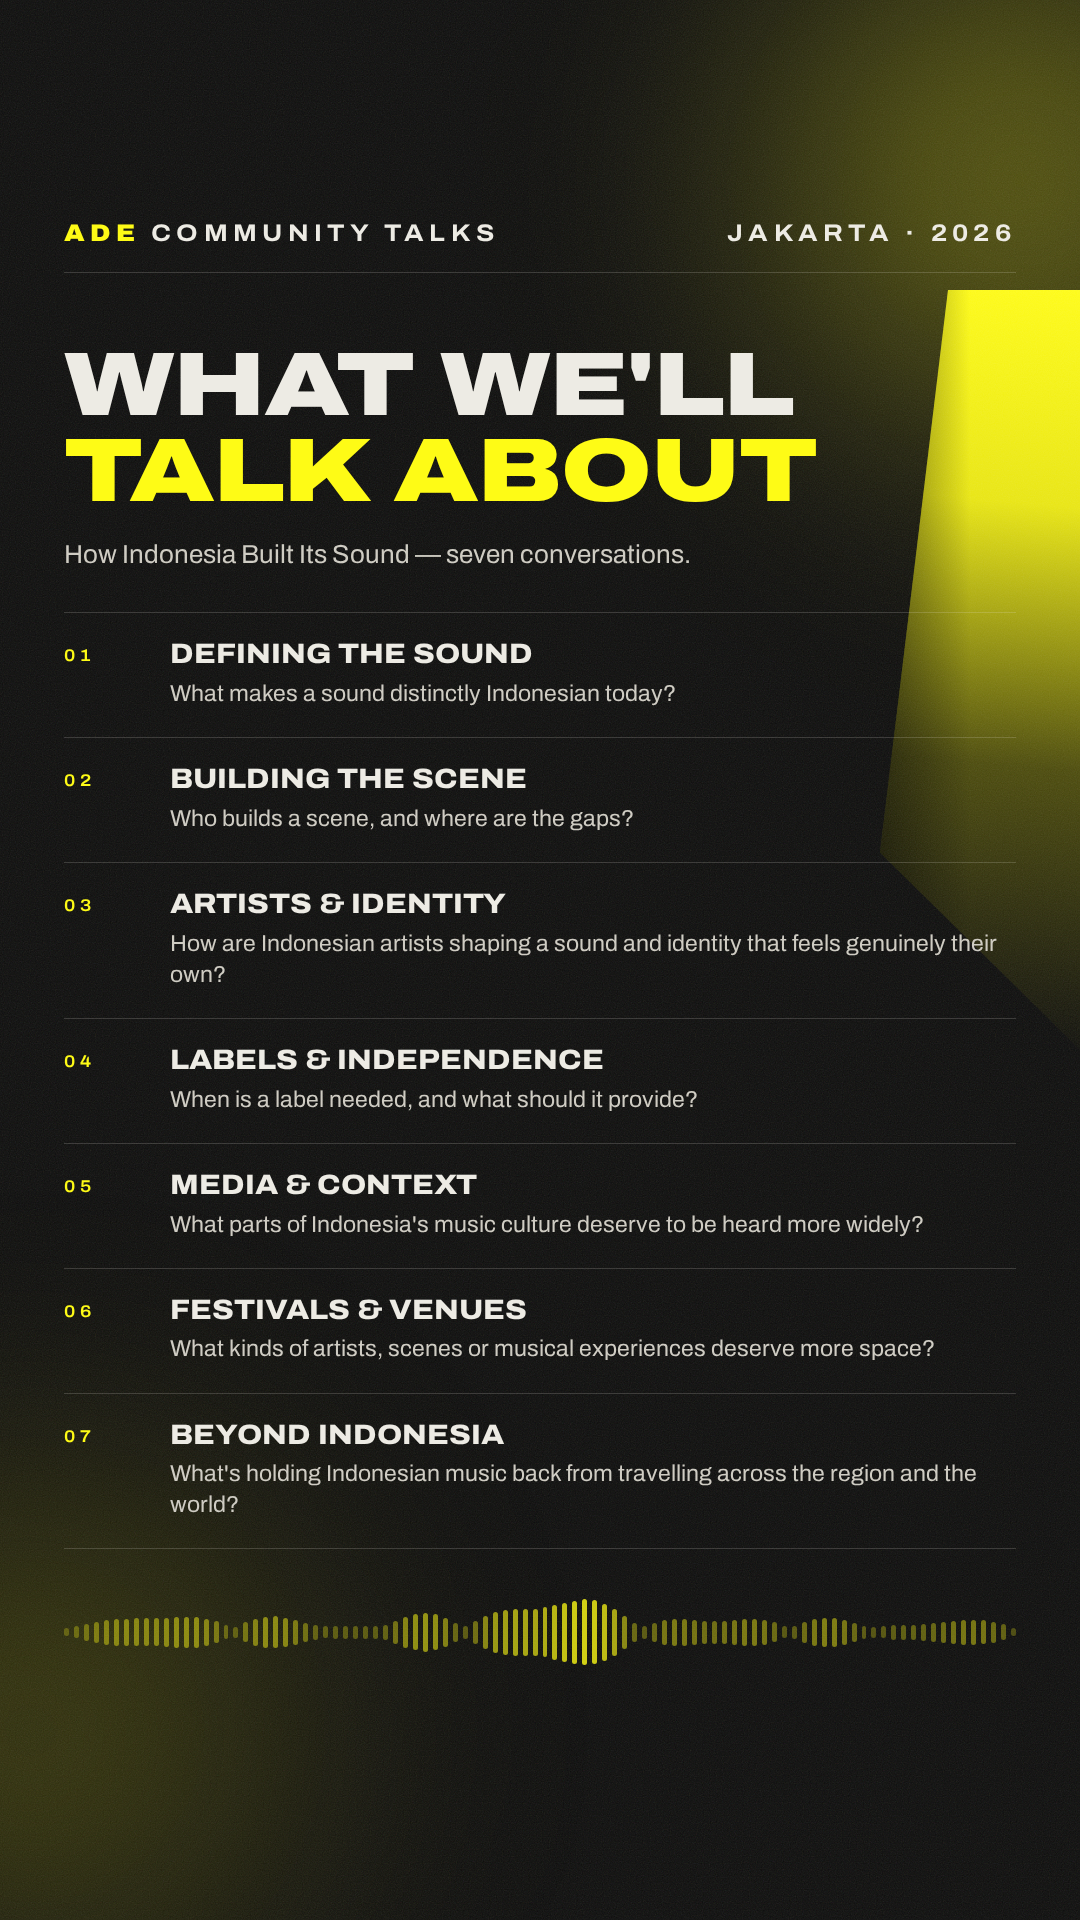
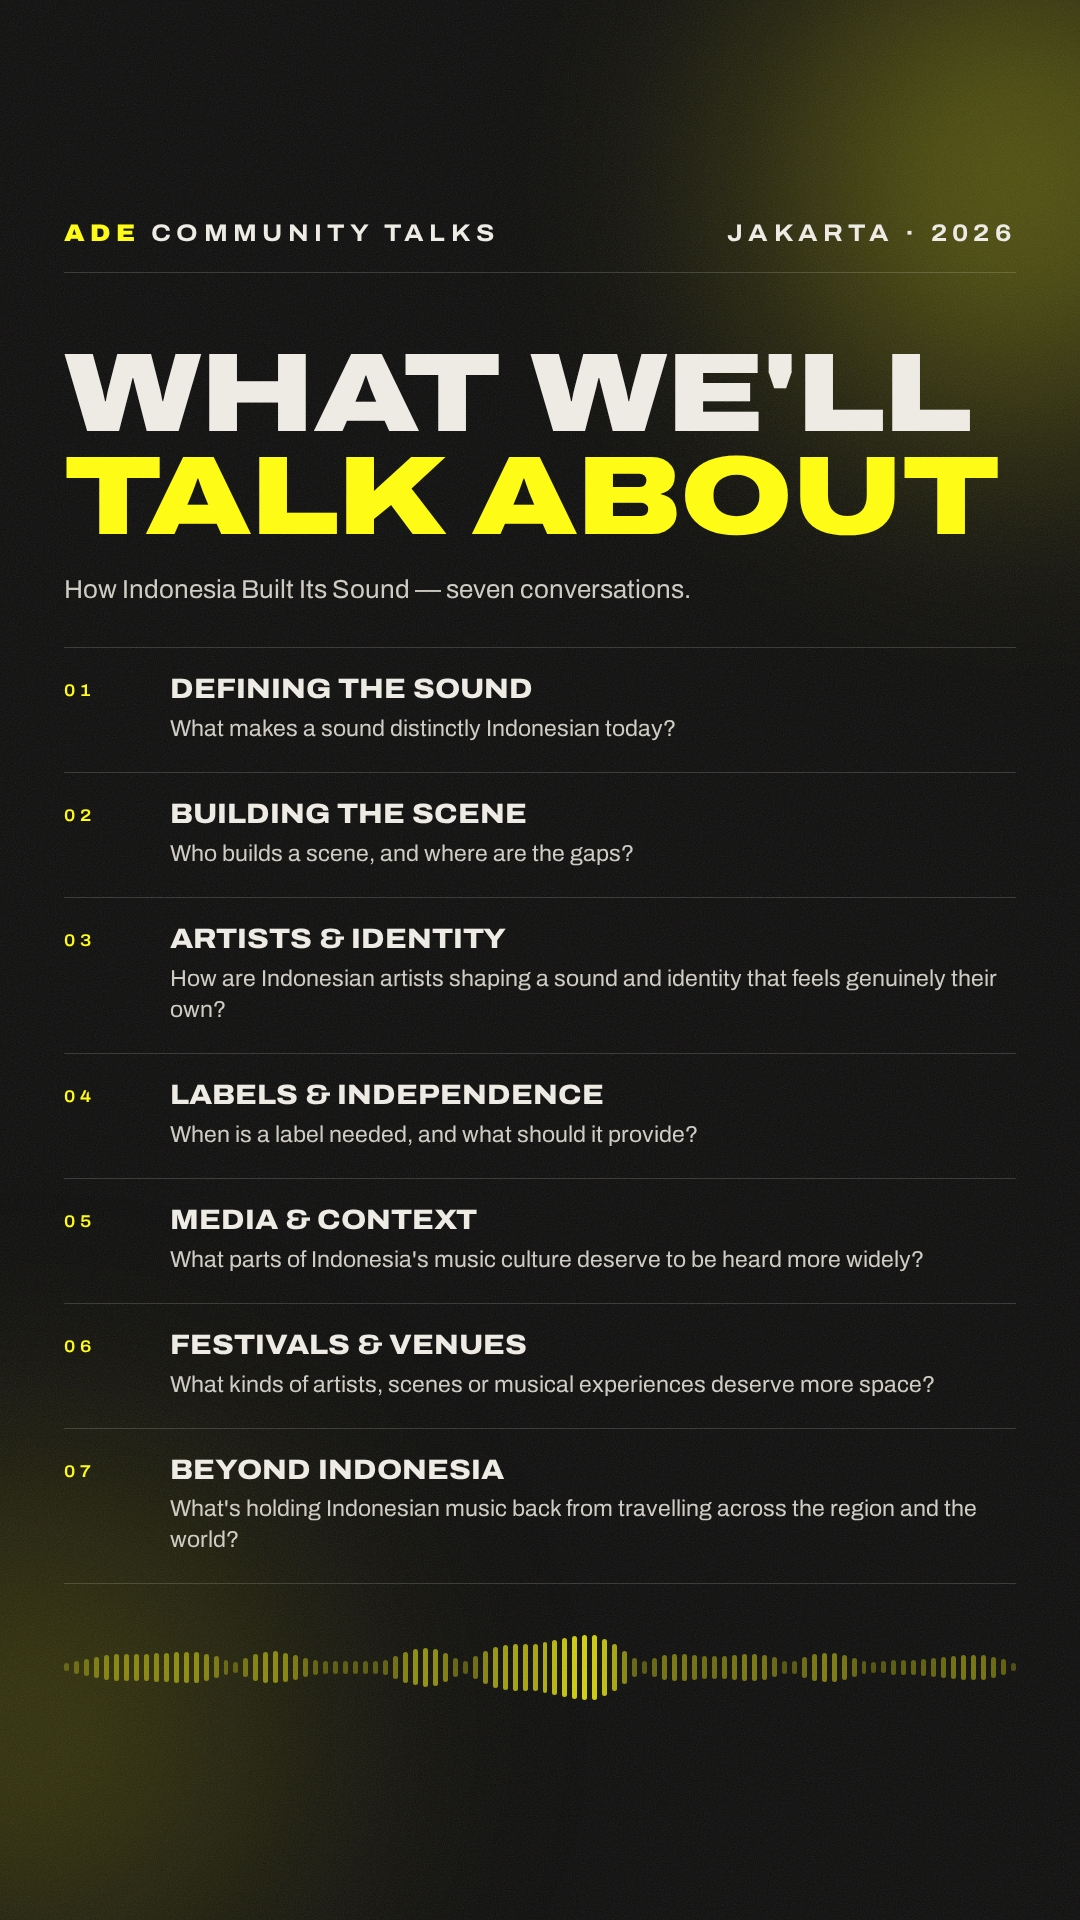
ADE flyer: drop the beam, keep the subtle corner glow
Claude-Session: https://claude.ai/code/session_01Sc5gF2HRFqjLpMQDrx7aqZ

diff --git a/events/ade-community-talks-2026/00-invite.html b/events/ade-community-talks-2026/00-invite.html
@@ -3,12 +3,12 @@
 .blank { margin-top: 40px; height: 200px; border-bottom: 1.5px solid rgba(237,235,228,.55); display: flex; align-items: flex-end; justify-content: flex-end; padding-bottom: 14px; }
 </style></head>
 <body>
-<div class="glow g1"></div><div class="beam"></div><div class="glow g2"></div><div class="grain"></div>
+<div class="glow g1"></div><div class="glow g2"></div><div class="grain"></div>
 <div class="page">
   <div class="row"><div class="label head"><b>ADE</b> Community Talks</div><div class="label head">Jakarta · 2026</div></div>
   <div class="hr" style="margin-top:26px"></div>
 
-  <div class="display" style="font-size:180px;line-height:.9;margin-top:90px">We<br>invite</div>
+  <div class="display" style="font-size:196px;line-height:.88;margin-top:90px">We<br>invite</div>
   <div class="blank"><span class="label">your name</span></div>
 
   <div class="lead" style="margin-top:48px">to an afternoon of talks, music and good company on</div>

diff --git a/events/ade-community-talks-2026/02-topics.html b/events/ade-community-talks-2026/02-topics.html
@@ -6,12 +6,12 @@
 .topic .q { font-size: 23px; line-height: 1.35; color: var(--soft); margin-top: 8px; }
 </style></head>
 <body>
-<div class="glow g1"></div><div class="beam"></div><div class="glow g2"></div><div class="grain"></div>
+<div class="glow g1"></div><div class="glow g2"></div><div class="grain"></div>
 <div class="page">
   <div class="row"><div class="label head"><b>ADE</b> Community Talks</div><div class="label head">Jakarta · 2026</div></div>
   <div class="hr" style="margin-top:26px"></div>
 
-  <div class="display" style="font-size:90px;line-height:.95;margin-top:70px">What we'll<br><em>talk about</em></div>
+  <div class="display" style="font-size:112px;line-height:.92;margin-top:70px">What we'll<br><em>talk about</em></div>
   <div class="lead" style="margin-top:22px">How Indonesia Built Its Sound — seven conversations.</div>
 
   <div style="margin-top:40px;border-top:1px solid var(--line)">

diff --git a/events/ade-community-talks-2026/01-lineup.html b/events/ade-community-talks-2026/01-lineup.html
@@ -7,12 +7,12 @@
 .card .org { margin-top: 8px; font-size: 13px; letter-spacing: .22em; }
 </style></head>
 <body>
-<div class="glow g1"></div><div class="beam"></div><div class="glow g2"></div><div class="grain"></div>
+<div class="glow g1"></div><div class="glow g2"></div><div class="grain"></div>
 <div class="page">
   <div class="row"><div class="label head">Amsterdam Dance Event</div><div class="label head">Jakarta</div></div>
   <div class="hr" style="margin-top:26px"></div>
 
-  <div class="display" style="font-size:100px;line-height:.92;margin-top:64px"><em>ADE</em><br>Community<br>Talks 2026</div>
+  <div class="display" style="font-size:112px;line-height:.9;margin-top:60px"><em>ADE</em><br>Community<br>Talks 2026</div>
   <div class="display" style="font-size:40px;font-weight:700;color:var(--soft);margin-top:24px">How Indonesia Built Its Sound</div>
 
 

diff --git a/events/ade-community-talks-2026/modern.css b/events/ade-community-talks-2026/modern.css
@@ -40,9 +40,3 @@ body { position: relative; font-family: 'Archivo', sans-serif; }
 .who span { color: #55534d; padding: 0 10px; }
 .who i { font-style: normal; white-space: nowrap; color: var(--fg); }
 
-/* yellow light beam, top right (from the original poster) */
-.beam { position: absolute; right: 0; top: 290px; width: 200px; height: 760px;
-  background: linear-gradient(185deg, var(--y) 0%, #e8e512 28%, rgba(150,148,10,.45) 62%, rgba(12,12,11,0) 100%);
-  clip-path: polygon(34% 0, 100% 0, 100% 100%, 0 74%); }
-.beam::after { content: ''; position: absolute; inset: 0; background: linear-gradient(90deg, rgba(0,0,0,.5), rgba(0,0,0,0) 45%); }
-.page { z-index: 1; }
